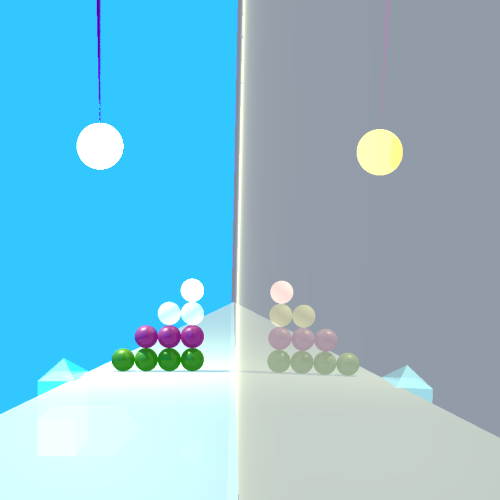
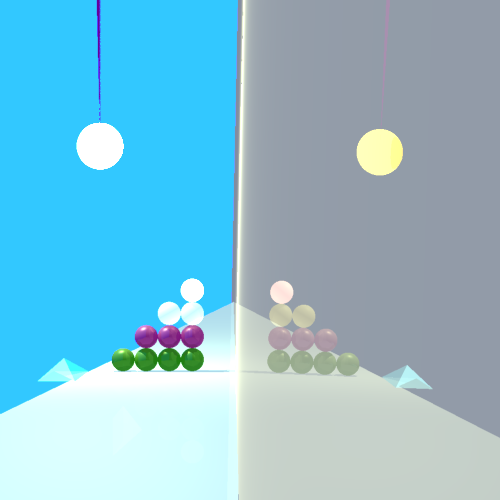
errors in light test -

Changed region(s): [[0.06, 0.84, 0.15, 0.93], [0.78, 0.75, 0.87, 0.81], [0.06, 0.72, 0.15, 0.81]]

diff --git a/unitTests/MyScene/Picture1.java b/unitTests/MyScene/Picture1.java
@@ -46,7 +46,7 @@ public class Picture1 {
         Point R=new Point(-150,90,-250);
         Point S=new Point(-90,155,-250);
 
-        //Scene scene = new Scene.SceneBuilder("Test scene").build();//
+
         Camera camera = new Camera(new Point(0, 0, 1000), new Vector(0,0,-1), new Vector(1,0,0)) //
                 .setVPDistance(600).setVPSize(200, 200); //
         scene.getGeometries().add(
@@ -70,54 +70,54 @@ public class Picture1 {
                         .setMaterial(new Material().setKd(0.5).setKs(0.1).setKt(0.8).setShininess(20)),
                 new Sphere(new Point(-35,50,-300),10).setEmission(new Color(PINK))
                         .setMaterial(new Material().setKd(0.5).setKs(0.1).setKt(0.8).setShininess(20)),
-                new Polygon(A,B,C,D)
-                        .setEmission(new Color(WHITE))
-                        .setMaterial(new Material().setKd(0.5).setKs(0.1).setKt(0).setKr(0).setShininess(20)),
-                new Polygon(E,F,G,H)
-                        .setEmission(new Color(WHITE))
-                        .setMaterial(new Material().setKd(0.5).setKs(0.1).setKt(0).setKr(0).setShininess(20)),
-                new Polygon(A,D,H,E)
-                        .setEmission(new Color(WHITE))
-                        .setMaterial(new Material().setKd(0.5).setKs(0.1).setKt(0).setKr(0).setShininess(20)),
-                new Polygon(G,H,D,C)
-                        .setEmission(new Color(WHITE))
-                        .setMaterial(new Material().setKd(0.5).setKs(0.1).setKt(0).setKr(0).setShininess(20)),
-                new Polygon(G,F,B,C)
-                        .setEmission(new Color(WHITE))
-                        .setMaterial(new Material().setKd(0.5).setKs(0.1).setKt(0).setKr(0).setShininess(20)),
-                new Polygon(E,F,B,A)
-                        .setEmission(new Color(WHITE))
-                        .setMaterial(new Material().setKd(0.5).setKs(1).setKt(0).setShininess(20)),
-                new Polygon(L,M,K,J)
-                        .setEmission(new Color(51,204,255))
-                        .setMaterial(new Material().setKd(0.5).setKs(1).setKt(0.5).setShininess(20)),
-                new Polygon(G,C,J,L)
-                        .setEmission(new Color(51,204,255))
-                        .setMaterial(new Material().setKd(0.5).setKs(1).setKt(0.5).setShininess(20)),
-                new Polygon(M,H,D,K)
-                        .setEmission(new Color(51,204,255))
-                        .setMaterial(new Material().setKd(0.5).setKs(1).setKt(0.5).setShininess(20)),
-                new Polygon(G,H,M,L)
-                        .setEmission(new Color(51,204,255))
-                        .setMaterial(new Material().setKd(0.5).setKs(1).setKt(0.5).setShininess(20)),
-                new Polygon(C,D,K,J)
-                        .setEmission(new Color(51,204,255))
-                        .setMaterial(new Material().setKd(0.5).setKs(1).setKt(0.5).setShininess(20)),
-                new Polygon(N,O,Q,P)
-                        .setEmission(new Color(51,204,255))
-                        .setMaterial(new Material().setKd(0.5).setKs(1).setKt(0.5).setShininess(20)),
-                new Polygon(Q,G,C,O)
-                        .setEmission(new Color(51,204,255))
-                        .setMaterial(new Material().setKd(0.5).setKs(1).setKt(0.5).setShininess(20)),
-                new Polygon(P,F,B,N)
-                        .setEmission(new Color(51,204,255))
-                        .setMaterial(new Material().setKd(0.5).setKs(1).setKt(0.5).setShininess(20)),
-                new Polygon(N,B,C,O)
-                        .setEmission(new Color(51,204,255))
-                        .setMaterial(new Material().setKd(0.5).setKs(1).setKt(0.5).setShininess(20)),
-                new Polygon(P,F,G,Q)
-                        .setEmission(new Color(51,204,255))
-                        .setMaterial(new Material().setKd(0.5).setKs(1).setKt(0.5).setShininess(20)),
+//                new Polygon(A,B,C,D)
+//                        .setEmission(new Color(WHITE))
+//                        .setMaterial(new Material().setKd(0.5).setKs(0.1).setKt(0).setKr(0).setShininess(20)),
+//                new Polygon(E,F,G,H)
+//                        .setEmission(new Color(WHITE))
+//                        .setMaterial(new Material().setKd(0.5).setKs(0.1).setKt(0).setKr(0).setShininess(20)),
+//                new Polygon(A,D,H,E)
+//                        .setEmission(new Color(WHITE))
+//                        .setMaterial(new Material().setKd(0.5).setKs(0.1).setKt(0).setKr(0).setShininess(20)),
+//                new Polygon(G,H,D,C)
+//                        .setEmission(new Color(WHITE))
+//                        .setMaterial(new Material().setKd(0.5).setKs(0.1).setKt(0).setKr(0).setShininess(20)),
+//                new Polygon(G,F,B,C)
+//                        .setEmission(new Color(WHITE))
+//                        .setMaterial(new Material().setKd(0.5).setKs(0.1).setKt(0).setKr(0).setShininess(20)),
+//                new Polygon(E,F,B,A)
+//                        .setEmission(new Color(WHITE))
+//                        .setMaterial(new Material().setKd(0.5).setKs(1).setKt(0).setShininess(20)),
+//                new Polygon(L,M,K,J)
+//                        .setEmission(new Color(51,204,255))
+//                        .setMaterial(new Material().setKd(0.5).setKs(1).setKt(0.5).setShininess(20)),
+//                new Polygon(G,C,J,L)
+//                        .setEmission(new Color(51,204,255))
+//                        .setMaterial(new Material().setKd(0.5).setKs(1).setKt(0.5).setShininess(20)),
+//                new Polygon(M,H,D,K)
+//                        .setEmission(new Color(51,204,255))
+//                        .setMaterial(new Material().setKd(0.5).setKs(1).setKt(0.5).setShininess(20)),
+//                new Polygon(G,H,M,L)
+//                        .setEmission(new Color(51,204,255))
+//                        .setMaterial(new Material().setKd(0.5).setKs(1).setKt(0.5).setShininess(20)),
+//                new Polygon(C,D,K,J)
+//                        .setEmission(new Color(51,204,255))
+//                        .setMaterial(new Material().setKd(0.5).setKs(1).setKt(0.5).setShininess(20)),
+//                new Polygon(N,O,Q,P)
+//                        .setEmission(new Color(51,204,255))
+//                        .setMaterial(new Material().setKd(0.5).setKs(1).setKt(0.5).setShininess(20)),
+//                new Polygon(Q,G,C,O)
+//                        .setEmission(new Color(51,204,255))
+//                        .setMaterial(new Material().setKd(0.5).setKs(1).setKt(0.5).setShininess(20)),
+//                new Polygon(P,F,B,N)
+//                        .setEmission(new Color(51,204,255))
+//                        .setMaterial(new Material().setKd(0.5).setKs(1).setKt(0.5).setShininess(20)),
+//                new Polygon(N,B,C,O)
+//                        .setEmission(new Color(51,204,255))
+//                        .setMaterial(new Material().setKd(0.5).setKs(1).setKt(0.5).setShininess(20)),
+//                new Polygon(P,F,G,Q)
+//                        .setEmission(new Color(51,204,255))
+//                        .setMaterial(new Material().setKd(0.5).setKs(1).setKt(0.5).setShininess(20)),
                 new Triangle(Q,O,R)
                         .setEmission(new Color(51,204,255))
                         .setMaterial(new Material().setKd(0.5).setKs(1).setKt(0.5).setShininess(20)),
@@ -142,13 +142,16 @@ public class Picture1 {
                 new Triangle(L,J,K)
                         .setEmission(new Color(51,204,255))
                         .setMaterial(new Material().setKd(0.5).setKs(1).setKt(0.5).setShininess(20)),
+
                 new Sphere(new Point(90, 130, -300),20).setEmission(new Color(ORANGE))   //light
-                        .setMaterial(new Material().setKd(0.5).setKs(0.8).setKt(1)),
+                        .setMaterial(new Material().setKd(0.5).setKs(0.7).setKt(1)),
+
                 new Triangle(new Point(94,130,-300),new Point(300,130,-300),new Point(300,130,-250))
                         .setEmission(new Color(102,0,153)),
                 new Triangle(new Point(-105,200,700),new Point(-105,5,700),new Point(-105,5,-2500))
                         .setEmission(new Color(173, 216, 230))
                         .setMaterial(new Material().setKd(0.5).setKs(0.5).setKt(0.1).setKr(0.1).setShininess(20)),
+
                 new Plane(new Point(-1000,28,0),new Point(90,5,0),new Point(-105,33,-2034))
                         .setEmission(new Color(GRAY))
                         .setMaterial(new Material().setKd(0.5).setKs(0.5).setKr(0.25))
